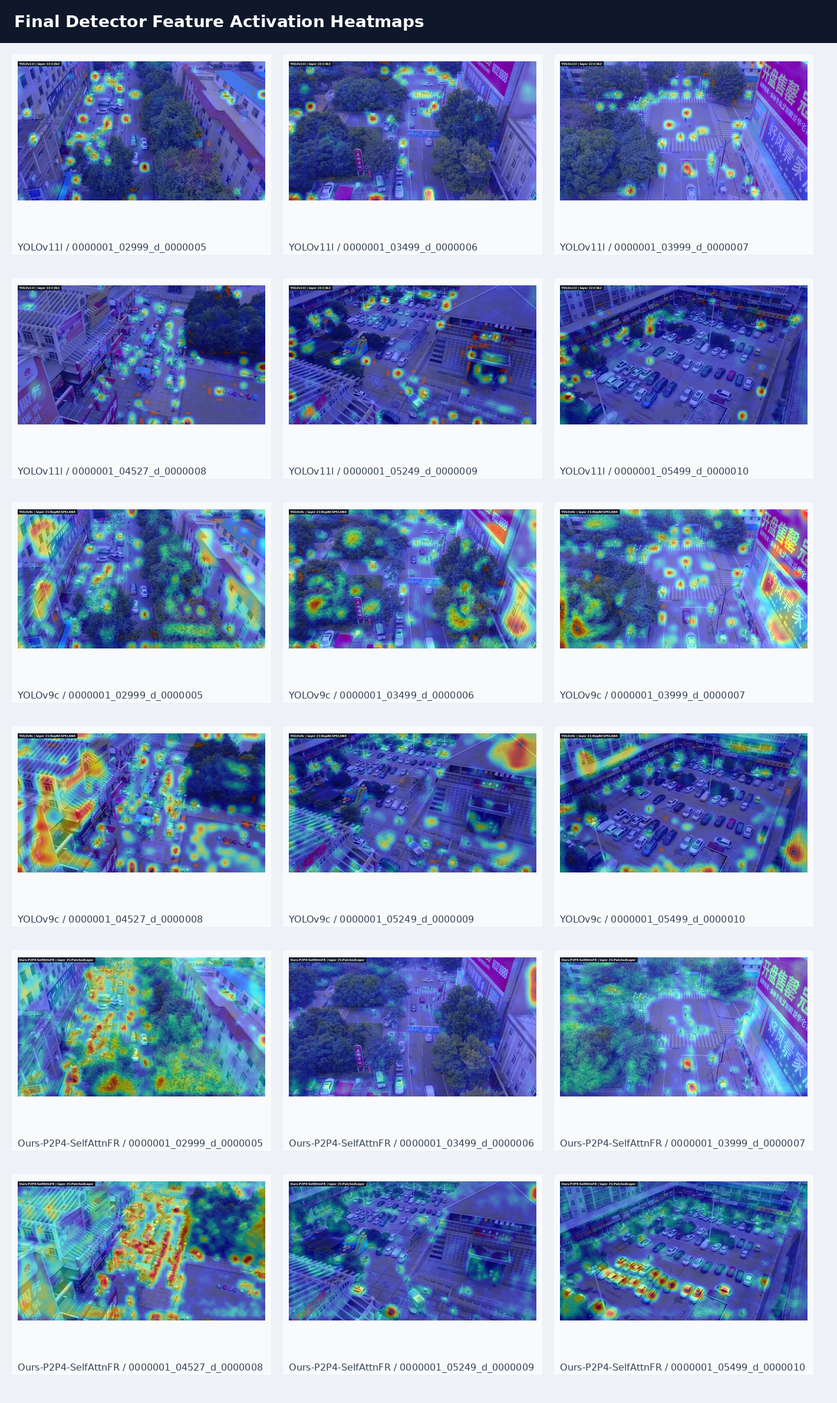
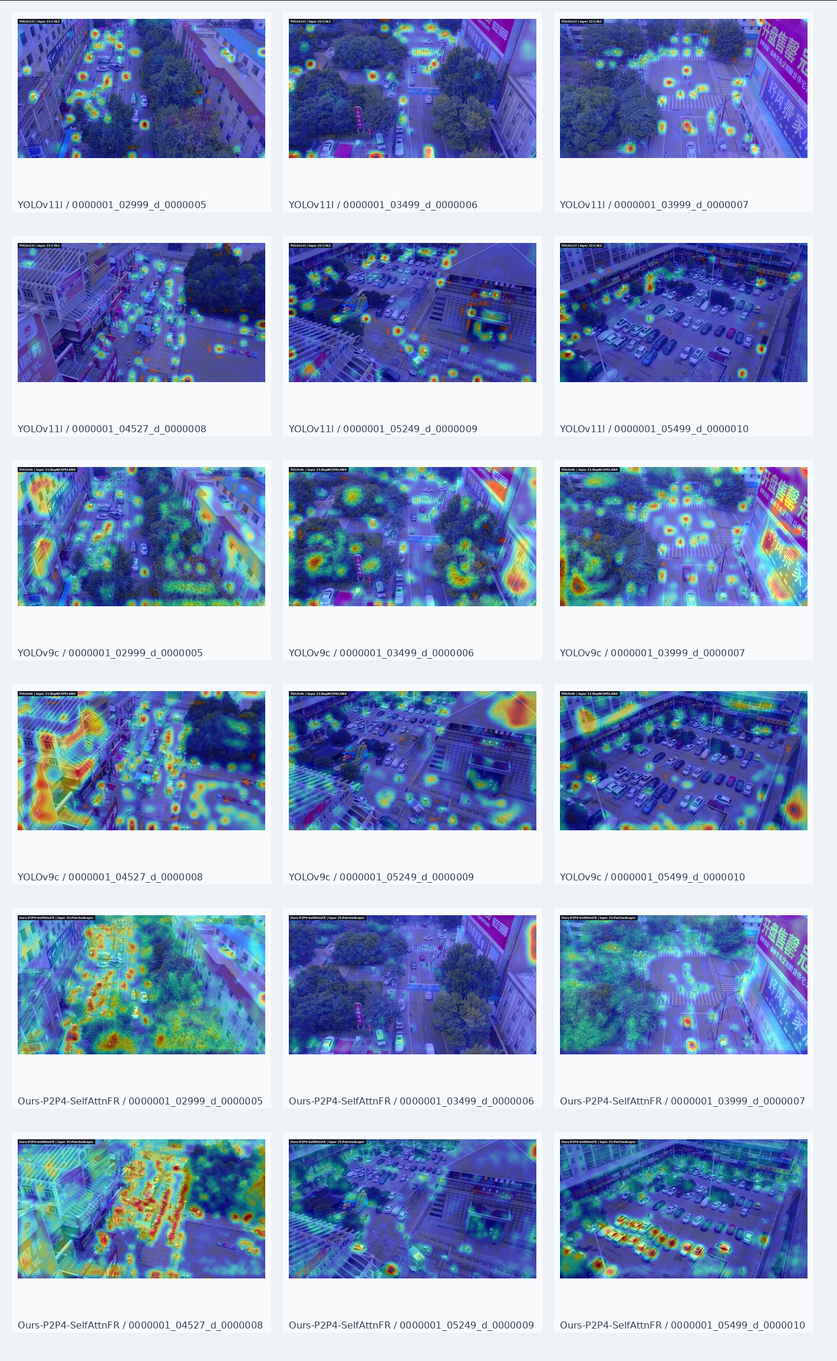
Refresh detector paper artifacts after related-work runs

diff --git a/evaluation/gradcam_yolo.py b/evaluation/gradcam_yolo.py
@@ -1,9 +1,12 @@
-"""Grad-CAM/feature visualization entrypoint for YOLO-style detectors.
+"""Feature activation visualization entrypoint for YOLO-style detectors.
 
-This is a prepared scaffold: it records the selected cases and checks runtime
-dependencies without pretending that all detector heads expose identical
-Grad-CAM targets. RT-DETR attention visualization is tracked separately in the
-Grad-CAM plan document.
+The paper needs a qualitative heatmap for the final detector comparison, but
+YOLO detection heads do not expose a single classifier logit that is comparable
+across every variant. This script therefore produces a conservative
+Grad-CAM-style feature activation map: it hooks the last non-detection module,
+averages the absolute activation response, overlays it on the input image, and
+stores the exact target layer in a manifest. The artifact should be described as
+"feature activation heatmap" rather than a class-logit Grad-CAM claim.
 """
 
 from __future__ import annotations
@@ -11,6 +14,10 @@ from __future__ import annotations
 import argparse
 import json
 from pathlib import Path
+from typing import Any
+
+import numpy as np
+from PIL import Image, ImageDraw, ImageFont
 
 from runtime.config import resolve_path
 
@@ -31,17 +38,19 @@ def dependency_status() -> dict[str, bool]:
     return status
 
 
-def write_plan(weights: list[str], images: list[str], out_dir: str | Path, target_layer: str) -> Path:
+def write_plan(weights: list[str], images: list[str], labels: list[str], out_dir: str | Path, target_layer: str) -> Path:
     out_root = resolve_path(out_dir)
     out_root.mkdir(parents=True, exist_ok=True)
     payload = {
         "status": "prepared",
         "weights": weights,
+        "labels": labels,
         "images": images,
         "target_layer": target_layer,
         "dependency_status": dependency_status(),
         "notes": [
-            "YOLO Grad-CAM should target the final neck feature map or a detection-head pre-logit feature.",
+            "These are feature activation heatmaps, not class-logit Grad-CAM scores.",
+            "The target is the last non-detection module unless --target-layer specifies a module index.",
             "Use identical images across models: correct, false positive, false negative, and class confusion cases.",
             "RT-DETR attention/feature visualization is a separate TODO because decoder attention differs from YOLO heads.",
         ],
@@ -51,14 +60,206 @@ def write_plan(weights: list[str], images: list[str], out_dir: str | Path, targe
     return path
 
 
+def _font(size: int, bold: bool = False) -> ImageFont.ImageFont:
+    names = ["DejaVuSans-Bold.ttf", "DejaVuSans.ttf"] if bold else ["DejaVuSans.ttf"]
+    for name in names:
+        try:
+            return ImageFont.truetype(name, size)
+        except OSError:
+            continue
+    return ImageFont.load_default()
+
+
+def _target_module(model: Any, target_layer: str) -> tuple[int, Any]:
+    module_seq = getattr(model, "model", model)
+    if hasattr(module_seq, "model"):
+        module_seq = getattr(module_seq, "model")
+    modules = list(module_seq)
+    if target_layer.isdigit() or (target_layer.startswith("-") and target_layer[1:].isdigit()):
+        idx = int(target_layer)
+        return idx, modules[idx]
+    for idx in range(len(modules) - 1, -1, -1):
+        module = modules[idx]
+        if module.__class__.__name__.lower() == "detect":
+            continue
+        return idx, module
+    return len(modules) - 1, modules[-1]
+
+
+def _activation_tensor(output: Any) -> Any | None:
+    import torch
+
+    if torch.is_tensor(output):
+        return output
+    if isinstance(output, (list, tuple)):
+        tensors = [item for item in output if torch.is_tensor(item) and item.ndim == 4]
+        if tensors:
+            return max(tensors, key=lambda t: int(t.shape[-1]) * int(t.shape[-2]))
+    return None
+
+
+def _normalize_cam(array: np.ndarray) -> np.ndarray:
+    array = array.astype(np.float32)
+    array -= float(np.nanmin(array))
+    denom = float(np.nanmax(array)) or 1.0
+    return np.clip(array / denom, 0.0, 1.0)
+
+
+def _overlay_heatmap(image_path: Path, cam: np.ndarray, out_path: Path, title: str) -> None:
+    import cv2
+
+    image = Image.open(image_path).convert("RGB")
+    rgb = np.asarray(image)
+    cam_resized = cv2.resize(cam, (rgb.shape[1], rgb.shape[0]), interpolation=cv2.INTER_CUBIC)
+    heat = cv2.applyColorMap((cam_resized * 255).astype(np.uint8), cv2.COLORMAP_JET)
+    heat = cv2.cvtColor(heat, cv2.COLOR_BGR2RGB)
+    overlay = np.clip(0.55 * rgb + 0.45 * heat, 0, 255).astype(np.uint8)
+    canvas = Image.fromarray(overlay)
+    draw = ImageDraw.Draw(canvas)
+    font = _font(22, True)
+    text_w = draw.textlength(title, font=font)
+    draw.rectangle([0, 0, int(text_w) + 28, 38], fill=(15, 23, 42))
+    draw.text((12, 7), title, fill="white", font=font)
+    out_path.parent.mkdir(parents=True, exist_ok=True)
+    canvas.save(out_path)
+
+
+def _contact_sheet(paths: list[Path], labels: list[str], out_path: Path, title: str, cols: int) -> None:
+    thumbs = []
+    for path in paths:
+        image = Image.open(path).convert("RGB")
+        image.thumbnail((420, 300), Image.Resampling.LANCZOS)
+        tile = Image.new("RGB", (440, 340), "#f8fafc")
+        tile.paste(image, ((440 - image.width) // 2, 12))
+        thumbs.append(tile)
+    rows = (len(thumbs) + cols - 1) // cols
+    header_h = 72 if title else 0
+    y_offset = header_h + 20
+    canvas = Image.new("RGB", (cols * 460 + 40, rows * 380 + y_offset + 8), "#eef2f7")
+    draw = ImageDraw.Draw(canvas)
+    if title:
+        draw.rectangle([0, 0, canvas.width, header_h], fill="#0f172a")
+        draw.text((24, 20), title, fill="white", font=_font(28, True))
+    for idx, tile in enumerate(thumbs):
+        x = 20 + (idx % cols) * 460
+        y = y_offset + (idx // cols) * 380
+        canvas.paste(tile, (x, y))
+        draw.text((x + 10, y + 318), labels[idx], fill="#334155", font=_font(16))
+    out_path.parent.mkdir(parents=True, exist_ok=True)
+    canvas.save(out_path)
+
+
+def render_heatmaps(
+    weights: list[str],
+    images: list[str],
+    labels: list[str],
+    out_dir: str | Path,
+    target_layer: str,
+    imgsz: int,
+    device: str,
+    conf: float,
+) -> Path:
+    from ultralytics import YOLO
+
+    out_root = resolve_path(out_dir)
+    out_root.mkdir(parents=True, exist_ok=True)
+    labels = labels or [Path(weight).stem for weight in weights]
+    if len(labels) != len(weights):
+        raise ValueError("--labels must match --weights length")
+
+    manifest: dict[str, Any] = {
+        "status": "rendered",
+        "kind": "feature_activation_heatmap",
+        "weights": weights,
+        "labels": labels,
+        "images": images,
+        "target_layer": target_layer,
+        "imgsz": imgsz,
+        "device": device,
+        "conf": conf,
+        "dependency_status": dependency_status(),
+        "artifacts": [],
+        "notes": [
+            "Activation is mean(abs(feature)) from the selected target module.",
+            "This is a qualitative feature-response visualization for supplementary analysis.",
+        ],
+    }
+
+    all_paths: list[Path] = []
+    all_labels: list[str] = []
+    per_image: dict[str, list[Path]] = {}
+
+    for weight, label in zip(weights, labels):
+        yolo = YOLO(resolve_path(weight))
+        model = yolo.model
+        model.eval()
+        module_idx, module = _target_module(model, target_layer)
+        activation: list[Any] = []
+
+        def hook(_module: Any, _inputs: Any, output: Any) -> None:
+            tensor = _activation_tensor(output)
+            if tensor is not None:
+                activation.append(tensor.detach())
+
+        handle = module.register_forward_hook(hook)
+        try:
+            for image in images:
+                image_path = resolve_path(image)
+                activation.clear()
+                yolo.predict(str(image_path), imgsz=imgsz, device=device, conf=conf, verbose=False)
+                if not activation:
+                    continue
+                tensor = activation[-1].float().abs().mean(dim=1)[0].cpu().numpy()
+                cam = _normalize_cam(tensor)
+                stem = image_path.stem
+                safe_label = "".join(ch if ch.isalnum() or ch in "-_" else "_" for ch in label)
+                out_path = out_root / "heatmaps" / stem / f"{safe_label}_activation_heatmap.png"
+                _overlay_heatmap(image_path, cam, out_path, f"{label} | layer {module_idx}:{module.__class__.__name__}")
+                all_paths.append(out_path)
+                all_labels.append(f"{label} / {stem}")
+                per_image.setdefault(stem, []).append(out_path)
+                manifest["artifacts"].append(
+                    {
+                        "label": label,
+                        "weight": weight,
+                        "image": image,
+                        "target_module_index": module_idx,
+                        "target_module_type": module.__class__.__name__,
+                        "heatmap": str(out_path),
+                    }
+                )
+        finally:
+            handle.remove()
+
+    for stem, paths in per_image.items():
+        image_labels = [path.stem.replace("_activation_heatmap", "") for path in paths]
+        _contact_sheet(paths, image_labels, out_root / "contact_sheets" / f"{stem}_comparison.png", stem, cols=len(weights))
+    if all_paths:
+        _contact_sheet(all_paths, all_labels, out_root / "feature_activation_contact_sheet.png", "", cols=len(weights))
+
+    manifest_path = out_root / "gradcam_render_manifest.json"
+    manifest_path.write_text(json.dumps(manifest, indent=2), encoding="utf-8")
+    return manifest_path
+
+
 def main() -> None:
     parser = argparse.ArgumentParser(description="Prepare YOLO Grad-CAM analysis inputs.")
     parser.add_argument("--weights", nargs="+", required=True)
     parser.add_argument("--images", nargs="+", required=True)
+    parser.add_argument("--labels", nargs="*", default=None)
     parser.add_argument("--out-dir", default="outputs/qualitative/gradcam")
     parser.add_argument("--target-layer", default="auto-neck-last")
+    parser.add_argument("--imgsz", type=int, default=1280)
+    parser.add_argument("--device", default="cpu")
+    parser.add_argument("--conf", type=float, default=0.25)
+    parser.add_argument("--plan-only", action="store_true")
     args = parser.parse_args()
-    print(write_plan(args.weights, args.images, args.out_dir, args.target_layer))
+    labels = args.labels or [Path(weight).stem for weight in args.weights]
+    plan = write_plan(args.weights, args.images, labels, args.out_dir, args.target_layer)
+    if args.plan_only:
+        print(plan)
+        return
+    print(render_heatmaps(args.weights, args.images, labels, args.out_dir, args.target_layer, args.imgsz, args.device, args.conf))
 
 
 if __name__ == "__main__":

diff --git a/outputs/reports/final_detector_table_preview.md b/outputs/reports/final_detector_table_preview.md
@@ -1,6 +1,6 @@
 # Final Detector Table Preview
 
-Updated: 2026-06-26T10:14:47+09:00
+Updated: 2026-06-26T11:48:01+09:00
 
 Reference baseline: YOLOv11l 3-seed mean, AP 0.3777 / AP50 0.5981 / F1 0.6248 / Params 25.32M.
 This preview separates completed 1280 3-seed rows, the current 1280 sweep status, single-seed NMS snapshots, and cited related-work rows.

diff --git a/outputs/reports/detector_rankings/detector_ranking_snapshot.md b/outputs/reports/detector_rankings/detector_ranking_snapshot.md
@@ -1,6 +1,6 @@
 # Detector Ranking Snapshot
 
-Generated: 2026-06-26T10:58:16
+Generated: 2026-06-26T11:48:49
 
 Trade-off score = mean(AP, AP50, F1) * (YOLOv11l params / model params).
 Paper-gated trade-off additionally requires AP and AP50 to be at least YOLOv11l before scoring.

diff --git a/outputs/reports/live/paper_artifact_readiness_check.md b/outputs/reports/live/paper_artifact_readiness_check.md
@@ -1,6 +1,6 @@
 # Paper Artifact Readiness Check
 
-Updated: `2026-06-26 11:29:30 KST`
+Updated: `2026-06-26 11:58:24 KST`
 Status: `paper_artifact_audit_ok_with_pending_gates`
 
 ## Summary

diff --git a/outputs/reports/live/latex_patch_integrity_check.md b/outputs/reports/live/latex_patch_integrity_check.md
@@ -1,6 +1,6 @@
 # LaTeX Patch Integrity Check
 
-Updated: `2026-06-26 11:29:29 KST`
+Updated: `2026-06-26 11:58:24 KST`
 Status: `latex_patch_integrity_ok`
 
 ## Summary

diff --git a/outputs/reports/live/accv_workflow_status_snapshot.md b/outputs/reports/live/accv_workflow_status_snapshot.md
@@ -1,6 +1,6 @@
 # ACCV Workflow Status Snapshot
 
-Updated: `2026-06-26 11:29:31 KST`
+Updated: `2026-06-26 11:58:24 KST`
 
 ## Detector Status
 
